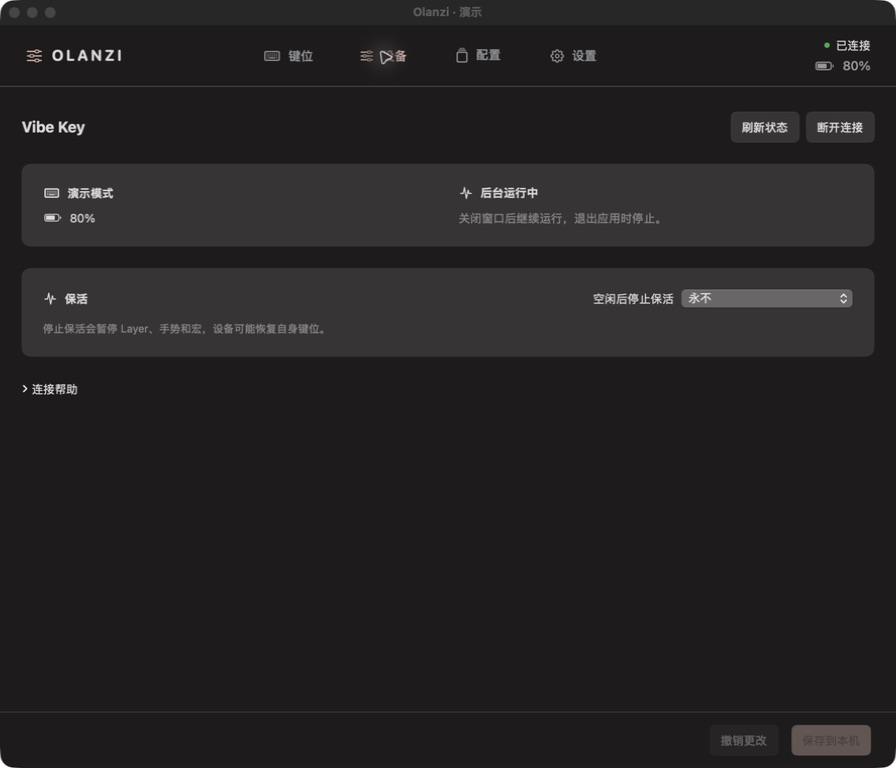
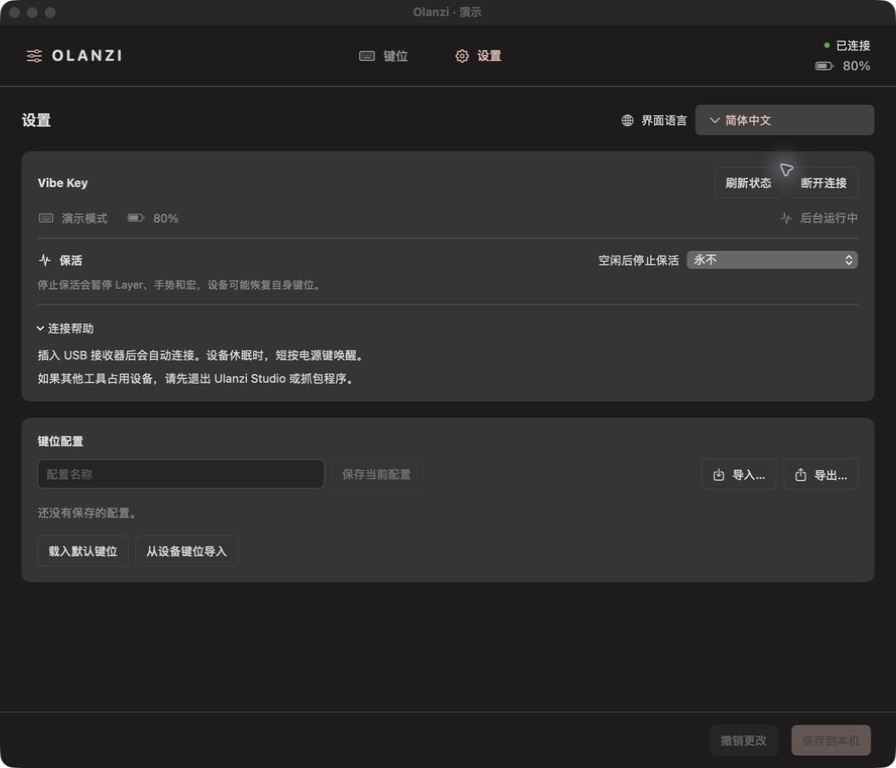
refactor(ui): consolidate device and profile settings

diff --git a/native/Sources/OlanziApp/ContentView.swift b/native/Sources/OlanziApp/ContentView.swift
@@ -6,6 +6,7 @@ struct ContentView: View {
     @ObservedObject var model: AppModel
     @State private var profileName = ""
     @State private var showsGestureHelp = false
+    @State private var showsConnectionHelp = true
     var body: some View {
         Group {
             if !model.demo && model.needsPermissionSetup {
@@ -39,15 +40,15 @@ struct ContentView: View {
         .accessibilityLabel(model.l("界面语言"))
     }
     private var appSettings: some View {
-        VStack(alignment: .leading, spacing: 24) {
-            Text(model.l("设置")).font(.title2.bold())
+        VStack(alignment: .leading, spacing: 18) {
             HStack {
-                Label(model.l("界面语言"), systemImage: "globe").font(.headline)
+                Text(model.l("设置")).font(.title2.bold())
                 Spacer()
-                languagePicker.labelsHidden().frame(width: 260)
+                Label(model.l("界面语言"), systemImage: "globe").font(.body)
+                languagePicker.labelsHidden().frame(width: 200)
             }
-            .padding(24)
-            .background(Palette.surface, in: RoundedRectangle(cornerRadius: 10))
+            deviceSettings
+            profiles
         }
     }
     private var permissionWelcome: some View {
@@ -138,11 +139,9 @@ struct ContentView: View {
                         if model.page == 0 {
                             keymap(availableHeight: viewport.size.height - 28,
                                    availableWidth: viewport.size.width - 48)
-                        } else if model.page == 1 { deviceSettings }
-                        else if model.page == 2 { profiles }
-                        else { appSettings }
+                        } else { appSettings }
                     }
-                    .padding(.horizontal, 24).padding(.vertical, model.page == 0 ? 14 : 28)
+                    .padding(.horizontal, 24).padding(.vertical, model.page == 0 ? 14 : 20)
                     .frame(maxWidth: .infinity)
                 }
             }
@@ -187,7 +186,7 @@ struct ContentView: View {
                 Text("OLANZI").font(.system(size: 17, weight: .bold, design: .rounded)).tracking(3)
             }
             Spacer()
-            ForEach(Array([(0, "keyboard", "键位"), (1, "slider.horizontal.3", "设备"), (2, "square.stack", "配置"), (3, "gearshape", "设置")].enumerated()), id: \.offset) { _, item in
+            ForEach(Array([(0, "keyboard", "键位"), (1, "gearshape", "设置")].enumerated()), id: \.offset) { _, item in
                 Button { model.page = item.0 } label: {
                     Label(model.l(item.2), systemImage: item.1).font(.system(size: 14, weight: .medium))
                         .foregroundStyle(model.page == item.0 ? Palette.accent : Color.gray)
@@ -541,9 +540,9 @@ struct ContentView: View {
         }.frame(width: 108, height: 416)
     }
     private var deviceSettings: some View {
-        VStack(alignment: .leading, spacing: 24) {
+        VStack(alignment: .leading, spacing: 14) {
             HStack {
-                Text("Vibe Key").font(.title2.bold())
+                Text("Vibe Key").font(.headline)
                 Spacer()
                 Button(model.l("刷新状态")) { model.refresh() }
                     .disabled(!model.device.connected || model.device.busy)
@@ -551,20 +550,17 @@ struct ContentView: View {
                     if model.device.connected { model.disconnect() } else { model.connect() }
                 }.disabled(model.device.busy)
             }
-            HStack(spacing: 24) {
-                VStack(alignment: .leading, spacing: 12) {
-                    Label(model.status, systemImage: "keyboard").font(.headline)
-                    Label(model.batteryText, systemImage: model.batterySymbol).font(.body)
-                        .help(model.batteryHelp)
-                }.frame(maxWidth: .infinity, alignment: .leading)
-                VStack(alignment: .leading, spacing: 12) {
-                    Label(model.l(model.device.heartbeatPausedForInactivity ? "因空闲已停止保活" : model.device.heartbeatEnabled ? "后台运行中" : "后台已暂停"),
-                          systemImage: "waveform.path.ecg").font(.headline)
-                    Text(model.l("关闭窗口后继续运行，退出应用时停止。"))
-                        .font(.body).foregroundStyle(.secondary)
-                }.frame(maxWidth: .infinity, alignment: .leading)
-            }.padding(24).background(Palette.surface, in: RoundedRectangle(cornerRadius: 10))
-            VStack(alignment: .leading, spacing: 16) {
+            HStack(spacing: 20) {
+                Label(model.status, systemImage: "keyboard")
+                Label(model.batteryText, systemImage: model.batterySymbol)
+                    .help(model.batteryHelp)
+                Spacer()
+                Label(model.l(model.device.heartbeatPausedForInactivity ? "因空闲已停止保活" : model.device.heartbeatEnabled ? "后台运行中" : "后台已暂停"),
+                      systemImage: "waveform.path.ecg")
+                    .help(model.l("关闭窗口后继续运行，退出应用时停止。"))
+            }.font(.body).foregroundStyle(.secondary)
+            Divider()
+            VStack(alignment: .leading, spacing: 10) {
                 HStack {
                     Label(model.l("保活"), systemImage: "waveform.path.ecg").font(.headline)
                     Spacer()
@@ -589,9 +585,10 @@ struct ContentView: View {
                             .help(model.l("有按住的按键时，松开后恢复。"))
                     }
                 }
-            }.padding(24).background(Palette.surface, in: RoundedRectangle(cornerRadius: 10))
-            DisclosureGroup(model.l("连接帮助")) {
-                VStack(alignment: .leading, spacing: 16) {
+            }
+            Divider()
+            DisclosureGroup(model.l("连接帮助"), isExpanded: $showsConnectionHelp) {
+                VStack(alignment: .leading, spacing: 10) {
                     Text(model.l("插入 USB 接收器后会自动连接。设备休眠时，短按电源键唤醒。"))
                     Text(model.l("如果其他工具占用设备，请先退出 Ulanzi Studio 或抓包程序。"))
                     if !model.demo {
@@ -601,13 +598,13 @@ struct ContentView: View {
                             Button(model.l("显示 App 位置")) { model.revealApplication() }
                         }
                     }
-                }.font(.body).padding(.top, 16)
+                }.font(.body).frame(maxWidth: .infinity, alignment: .leading).padding(.top, 10)
             }.font(.body)
-        }
+        }.padding(18).background(Palette.surface, in: RoundedRectangle(cornerRadius: 10))
     }
     private var profiles: some View {
-        VStack(alignment: .leading, spacing: 20) {
-            Text(model.l("键位配置")).font(.title2.bold())
+        VStack(alignment: .leading, spacing: 12) {
+            Text(model.l("键位配置")).font(.headline)
             HStack {
                 TextField(model.l("配置名称"), text: $profileName).textFieldStyle(OlanziTextFieldStyle()).frame(maxWidth: 320)
                 Button(model.l("保存当前配置")) { model.saveProfile(name: profileName); profileName = "" }
@@ -625,15 +622,15 @@ struct ContentView: View {
                     Spacer()
                     Button(model.l("载入")) { model.loadProfile(profile) }
                     Button { model.removeProfile(profile.id) } label: { Image(systemName: "trash") }.help(model.l("删除配置"))
-                }.padding(18).background(Palette.surface, in: RoundedRectangle(cornerRadius: 8))
+                }.padding(12).background(Palette.raised, in: RoundedRectangle(cornerRadius: 8))
             }
-            if model.profiles.isEmpty { Text(model.l("还没有保存的配置。")).foregroundStyle(.secondary).padding(.vertical, 35) }
+            if model.profiles.isEmpty { Text(model.l("还没有保存的配置。")).foregroundStyle(.secondary).padding(.vertical, 6) }
             HStack {
                 Button(model.l("载入默认键位")) { model.loadDefaults() }
                 Button(model.l("从设备键位导入")) { model.importDeviceBindings() }
                     .disabled(!model.online || model.device.busy || model.device.keys.count != 6)
             }
-        }
+        }.padding(18).background(Palette.surface, in: RoundedRectangle(cornerRadius: 10))
     }
     private var footer: some View {
         VStack(spacing: 0) {

diff --git a/native/Sources/OlanziApp/OlanziApp.swift b/native/Sources/OlanziApp/OlanziApp.swift
@@ -89,7 +89,7 @@ final class AppDelegate: NSObject, NSApplicationDelegate, NSWindowDelegate {
     }
     @objc private func resumeHeartbeat() { model.resumeHeartbeat() }
     @objc private func showSettings() {
-        model.page = 3
+        model.page = 1
         showWindow()
     }
     @objc private func showWindow() {

diff --git a/docs/09-native-macos.md b/docs/09-native-macos.md
@@ -67,7 +67,7 @@ Before connecting real hardware, quit official Studio and stop any legacy tool t
 
 The red close button and `Cmd-W` only hide the configuration window and retain drafts. Olanzi keeps running in the menu bar, and its Dock icon remains if already shown. Its background device worker continues the connection, heartbeat scheduling, and ordinary-key and Fn forwarding through the saved host action map while the device is available and keepalive is not paused. Reopen the configuration window from the menu bar or Dock when you need to edit mappings. While a receiver is connected, the background worker holds an activity assertion against App Nap so hiding the window does not reduce heartbeat and input scheduling. It releases the assertion on disconnect or quit, and demo mode never acquires one. This assertion allows the Mac to sleep normally.
 
-Open Settings in the main window’s top navigation, or choose Settings in the macOS application menu (`Cmd-,`), to change the interface language. Options are Follow System (the default), English, and Simplified Chinese; unsupported system languages fall back to English. The selected preference is saved and takes effect immediately without restarting the app. Changing language preserves key mappings and unsaved drafts. User-defined profile names and file paths are not translated. The permission welcome page provides the same language selector, so language can be changed before granting permissions while the rest of the workspace remains gated.
+The main window has two navigation tabs: **Keys** and **Settings**. Settings combines the language selector at the top with Vibe Key status, keepalive, connection help, and keymap profile management below. Connection help is expanded by default. Open Settings from the top navigation or the macOS application menu (`Cmd-,`). Use its language selector to change the interface language. Options are Follow System (the default), English, and Simplified Chinese; unsupported system languages fall back to English. The selected preference is saved and takes effect immediately without restarting the app. Changing language preserves key mappings and unsaved drafts. User-defined profile names and file paths are not translated. The permission welcome page provides the same language selector, so language can be changed before granting permissions while the rest of the workspace remains gated.
 
 Choose Quit from the application menu to stop the app and device worker. Shutdown attempts to release any synthetic Fn hold and closes the device interfaces. Closing a window is therefore different from quitting the app. Computer sleep interrupts continued heartbeat delivery regardless of whether the window is open.
 
@@ -115,7 +115,7 @@ tap_code16(LCTL(LALT(LGUI(KC_I))));
 
 Unknown or unsupported syntax reports a line and column and is not executed. The editor accepts at most 32 KiB of code and 32 levels of nesting, and the expanded result must still fit the 1–32 macro-step limit. Converting between views preserves executable steps, not the original whitespace, comments, or choice of equivalent syntax.
 
-The device illustration and action cards are the control selector; there is no repeated control list. The key picker always includes **▽** and a **rounded square with a cross (`xmark.square`)** (No Action) instead of separate clear-action and restore-inheritance buttons. On a non-base layer, ▽ restores only the selected gesture’s lower-layer action, output mode, and repeat count, preserving other overrides; Layer 0 cannot inherit. The crossed-square keycap makes a primary action an explicit no-op, or disables the selected double/long gesture so it no longer participates in recognition, including when a lower layer has that gesture. Inherited actions display a downward triangle with explanatory hover and accessibility text. Timing and Fn explanations are in the question-mark help. The footer shows pending changes or a save in progress, without a routine saved-state label; errors remain visible. The device page keeps connection help collapsed and omits heartbeat counters.
+The device illustration and action cards are the control selector; there is no repeated control list. The key picker always includes **▽** and a **rounded square with a cross (`xmark.square`)** (No Action) instead of separate clear-action and restore-inheritance buttons. On a non-base layer, ▽ restores only the selected gesture’s lower-layer action, output mode, and repeat count, preserving other overrides; Layer 0 cannot inherit. The crossed-square keycap makes a primary action an explicit no-op, or disables the selected double/long gesture so it no longer participates in recognition, including when a lower layer has that gesture. Inherited actions display a downward triangle with explanatory hover and accessibility text. Timing and Fn explanations are in the question-mark help. The footer shows pending changes or a save in progress, without a routine saved-state label; errors remain visible. Settings keeps connection help expanded by default and omits heartbeat counters.
 
 Operation feedback, including saves, appears as a floating capsule near the top of the window. Its `Capsule` shape has semicircular ends and occupies no page-layout space. Short messages dismiss after about 3.5 seconds, longer ones after 7 seconds, and either can be closed manually; repeating the same notice restarts its timer.
 
@@ -125,13 +125,13 @@ The host map is authoritative for all six controls while Olanzi is forwarding wi
 
 Exports default to `vibe-key-yyyy-MM-dd_HH-mm-ss-SSS.json`, using the current local date and time down to milliseconds to distinguish successive exports.
 
-The profile page offers `从设备键位导入` (import device mappings) as an optional action. It validates the six-control read-only snapshot before loading a draft. An unsupported action identifies the affected control and leaves the current draft unchanged. Importing does not save or activate the draft. The on-device key table remains an independent fallback. Explicit hardware writes through the protocol tool still require ACK/readback and can partially succeed; the native host-action editor no longer invokes that operation. Drafts are separate from both the saved host map and hardware snapshot.
+The Key Profiles section in Settings offers `从设备键位导入` (import device mappings) as an optional action. It validates the six-control read-only snapshot before loading a draft. An unsupported action identifies the affected control and leaves the current draft unchanged. Importing does not save or activate the draft. The on-device key table remains an independent fallback. Explicit hardware writes through the protocol tool still require ACK/readback and can partially succeed; the native host-action editor no longer invokes that operation. Drafts are separate from both the saved host map and hardware snapshot.
 
 The heartbeat follows Studio's recovered plaintext prefix `06 01 23 00 01` with zero padding. Because it selects vendor-event forwarding, it is enabled only with a successfully saved valid host map, a connected and online device, Input Monitoring and Accessibility permissions, and unsuspended input. Otherwise heartbeats stop while read-only online and key queries remain available; query waits also check permissions and sleep state. Successful transmission does not alone prove radio delivery or idle wakefulness. See [07 · Heartbeat Investigation](07-heartbeat-investigation.md).
 
-The device page provides an idle-stop preference: **Never** (default), or **1, 5, 10, 15, 30, or 60 minutes**. Changes save immediately on this Mac, separately from keymap drafts and profiles. Only physical Vibe Key key and knob actions count as activity. Holding a push control prevents timeout; releasing it starts a new idle interval. Status and battery queries, other computer input, and hiding the window do not reset that interval.
+The Vibe Key section in Settings provides an idle-stop preference: **Never** (default), or **1, 5, 10, 15, 30, or 60 minutes**. Changes save immediately on this Mac, separately from keymap drafts and profiles. Only physical Vibe Key key and knob actions count as activity. Holding a push control prevents timeout; releasing it starts a new idle interval. Status and battery queries, other computer input, and hiding the window do not reset that interval.
 
-At timeout, the worker stops heartbeats, cancels host gestures, momentary layers, keyboard repeats, and macros, and releases owned keys. The device may return to its firmware mappings. This pause stays latched: incoming vendor events do not resume host forwarding, avoiding duplicate output if standard HID has resumed. Use **Resume Keepalive** on the device page or in the menu bar to resume. A real receiver reconnection, Mac wake, or confirmed device offline-to-online transition also starts a new interval; recovery from an unknown status after a failed query does not clear the pause. Device sleep timing and power savings still require physical verification.
+At timeout, the worker stops heartbeats, cancels host gestures, momentary layers, keyboard repeats, and macros, and releases owned keys. The device may return to its firmware mappings. This pause stays latched: incoming vendor events do not resume host forwarding, avoiding duplicate output if standard HID has resumed. Use **Resume Keepalive** in Settings or in the menu bar to resume. A real receiver reconnection, Mac wake, or confirmed device offline-to-online transition also starts a new interval; recovery from an unknown status after a failed query does not clear the pause. Device sleep timing and power savings still require physical verification.
 
 The main window displays battery status below the connection state at the top right. While the device is online, the worker sends the read-only `01 01 02 01` query every 20 seconds and records the latest successful timestamp. The UI shows percentage and charging status, with levels at or below 20% in orange. Offline, unknown, or failed readings show `电量 —`; if only percentage is unavailable, a valid voltage is shown instead. The tooltip gives voltage, update time, or an independent read error. Battery failures clear the stale reading and retry on the next interval without disabling Fn forwarding. Decoding is based on [02 · Protocol](02-vibekey-protocol.md#battery-reply-fields); the current sample and verification boundary are in [05 §9.10](05-verification-log.md#910-read-only-battery-status-and-main-window-display).
 
@@ -145,7 +145,7 @@ Fn remains an ordinary key name in Common: select it and apply, without a separa
 
 Give **Olanzi App** both Input Monitoring and Accessibility permission in System Settings → Privacy & Security. These permissions belong to the native bundle, not the legacy terminal process. Outside demo mode, either missing permission shows only a permission welcome page inside the main app window by replacing its content, without opening a popup, another window, a sheet, the configuration workspace, or the settings interface or stacking initialization errors and a footer error bar. The welcome page provides separate Input Monitoring and Accessibility guidance, buttons for the corresponding system settings, and an app-location entry point. This guidance is independent of map initialization and device online status. Both permissions becoming ready automatically opens the workspace; revocation returns to the welcome page. Demo mode bypasses this gate. Automated regression, build, and real-UI verification of the welcome-page gate passed: one Olanzi main window showed the welcome text, both permission states, and settings and app-location controls, without configuration navigation, initialization errors, a save footer, or an additional popup. Clicking requests the selected permission directly on the app main thread before opening the matching System Settings page; the request no longer waits for the device worker or connection. Input Monitoring uses the HID request API, with an event-listening request as a fallback if access remains denied. The app requests one permission at a time, without adding a separate Fn panel. System policy and existing denial records can still prevent a new prompt; opening Settings alone is not evidence that the app was registered. The app checks permissions once per second without prompting, independently of window activation and the device worker. The UI stores these results separately so older device snapshots cannot overwrite newer permission state; changes automatically switch between the welcome page and workspace and ask the device service to recheck. Stopping the app cancels the timer, and demo mode does not poll. If Settings is enabled but the running process still reports unavailable access, first verify the authorized app copy and path; a Settings switch alone does not establish current-process permission. Ordinary-key and Fn forwarding both depend on these permissions; a device mapping does not establish that access is ready or forwarding is active.
 
-If Olanzi is absent from the settings list, click + to add it. The welcome or device page's “Show App Location” button reveals the running bundle in Finder. Grant permission to that copy at a stable path, such as the repository's `build/Olanzi.app` or `~/Applications/Olanzi.app`. Reuse the same signing certificate and bundle identifier across builds. Switching from ad-hoc signing to a certificate changes the signing requirement, so existing permissions may need to be removed and granted again once. Stable signing does not grant permissions automatically. [CONFIRMED] `codesign` verification of this local build identified the sole Apple Development identity in the keychain and bundle identifier `com.mrcroxx.olanzi`, with no ad-hoc signing. Missing permissions still require user approval in System Settings.
+If Olanzi is absent from the settings list, click + to add it. The “Show App Location” button on the welcome page or in Settings → Connection Help reveals the running bundle in Finder. Grant permission to that copy at a stable path, such as the repository's `build/Olanzi.app` or `~/Applications/Olanzi.app`. Reuse the same signing certificate and bundle identifier across builds. Switching from ad-hoc signing to a certificate changes the signing requirement, so existing permissions may need to be removed and granted again once. Stable signing does not grant permissions automatically. [CONFIRMED] `codesign` verification of this local build identified the sole Apple Development identity in the keychain and bundle identifier `com.mrcroxx.olanzi`, with no ad-hoc signing. Missing permissions still require user approval in System Settings.
 
 Input Monitoring first reads `CGPreflightListenEventAccess()`. If it is false, a temporary session-level, listen-only event tap containing only key-down/key-up events checks the current process's keyboard-listening capability. The probe must be both valid and enabled and is immediately invalidated and released, without joining a run loop or collecting keyboard content. `IOHIDCheckAccess()` and event-synthesis preflight remain diagnostic values. Accessibility independently reads `AXIsProcessTrusted()` on every check, without short-circuiting on other preflights. Diagnostics include `ListenProbe`, distinguishing probe results from skipped checks. The UI reports current listening capability as `已就绪` (ready), not the separate Settings switch, and does not establish any permission API's caching mechanism. It supersedes the preflight-only decision and conditional AX checks from §9.5/§9.6; see [05 §9.7](05-verification-log.md#97-checking-keyboard-listening-capability-after-a-negative-preflight) for in-process evidence and verification limits.
 

diff --git a/docs/10-input-runtime.md b/docs/10-input-runtime.md
@@ -70,7 +70,7 @@ For example, click **1** and override key 2 and knob rotation, then click **0** 
 
 The active map is stored at `~/Library/Application Support/Olanzi/host-keymap.json`. It contains six unique control indices, the action entries, timing values, and schema version. The store validates before writing, uses an atomic replacement, and does not activate a new map when persistence fails. If the file is missing, the worker publishes `hostConfigurationMissing=true` without creating a map or writing a file. The app offers `HostKeymap.defaultKeymap` as an editable draft, independent of device presence or the types in its old key table. A corrupt or unsupported local file remains an error, requires repair followed by an app restart, and cannot be overwritten by a draft. Only an explicit successful save persists and activates a new host map; until then, the default draft does not enable heartbeats. This process never writes the device key table.
 
-The device table is a separate fallback used when the app is absent and the receiver returns to standard HID output. Editing the fallback remains an explicit protocol-tool operation described in [03 · Tool Manual](03-tool-manual.md). Applying a host map or importing a profile does not rewrite it. The profile page can explicitly import the read-only device key snapshot into a draft. All six controls must validate; a failure identifies the affected control and preserves the existing draft. This optional import is not initialization or activation. Default drafts and existing host maps can be edited and saved offline; demo mode uses memory only and never touches the real host store or device.
+The device table is a separate fallback used when the app is absent and the receiver returns to standard HID output. Editing the fallback remains an explicit protocol-tool operation described in [03 · Tool Manual](03-tool-manual.md). Applying a host map or importing a profile does not rewrite it. The Key Profiles section in Settings can explicitly import the read-only device key snapshot into a draft. All six controls must validate; a failure identifies the affected control and preserves the existing draft. This optional import is not initialization or activation. Default drafts and existing host maps can be edited and saved offline; demo mode uses memory only and never touches the real host store or device.
 
 Exported `HostProfile` version 2 includes every control’s `press`, optional `doublePress` and `longPress` actions, the `pressBehavior`/`pressTapCount`, `doublePressBehavior`/`doublePressTapCount`, and `longPressBehavior`/`longPressTapCount` keyboard output settings, and the `doublePressWindow` and `longPressThreshold` timing values, together with app targets and complete macro steps. Existing keyboard-only actions remain compatible. The outer profile stays at version 2. Its nested `HostKeymap` writes version 5 when new primary or double-press output settings differ from their defaults or any gesture inheritance flags are present. Each control’s `inheritedGestures` is a `Set<ControlGesture>` containing any of `press`, `doublePress`, and `longPress`; marked gestures inherit their actions and keyboard output settings. No Action primary is stored as keyboard key 0, while No Action double/long press is `nil` without an inheritance flag. A missing control record inherits all gestures; an existing record without flags keeps its legacy complete override. Without non-default output settings or inheritance flags, existing version selection remains unchanged: layer overrides or MO actions use version 4. Storage remains sparse: unedited layers 1–3 may be absent from `layers`, and MO(1)–MO(3) remain valid without corresponding stored records. The reader accepts map versions 1–5, preserving older keyboard mappings and inline app/macro actions as Layer 0 with transparent layers 1–3. When no version-5 settings, layer records, or MO actions are present, serialization retains version 3 for an action library or library references, version 2 for other extended actions, and version 1 for keyboard-only mappings. Missing `pressBehavior` and `pressTapCount` default to `hold` and 2; missing `doublePressBehavior` and `doublePressTapCount` default to `tap` and 2. Older profiles without `longPressBehavior` decode as `hold`, and a missing `longPressTapCount` defaults to 2. Existing long-press modes and counts are retained; a rotary primary with legacy `hold` still executes one pulse. Existing Hold and Tap Once profiles retain their behavior; the count is validated within 2–20 in every mode. Rotary controls do not support long-press behavior. Double/long gestures remain supported. The chosen cross-Mac workflow is to export this complete JSON, import it on the destination Mac, and explicitly save it locally. Automatic cross-Mac synchronization through the device is not provided, and profile transfer never writes the device key table. Import accepts legacy native version-1 six-code profiles by turning their codes into primary actions with optional gestures disabled. Saved profile collections use `nativeHostProfiles`; the old `nativeProfiles` collection remains available as the migration source. Entries are decoded and migrated independently, so one corrupt or unsupported entry cannot prevent valid profiles from loading. Complete original data containing failed entries is backed up in `nativeHostProfilesRecoveryBackups`; subsequent profile saves or deletions do not overwrite that recovery copy. Import is bounded to 32 KiB and rejects invalid versions, duplicate/missing controls, unsupported keys, invalid timings, and rotary gesture mappings.
 
@@ -100,9 +100,9 @@ An app activation error or timeout stops the remaining macro. After a macro sele
 
 Studio heartbeats default to disabled. They are enabled only when a successfully saved valid host map, a connected and online device, Input Monitoring and Accessibility permissions, and unsuspended input are all ready. An unsaved default draft, a local configuration-file error, or missing permissions leaves read-only vendor queries available without continuing to take over device input through heartbeats. Permission diagnostics are independent of map initialization and device online status. Outside demo mode, missing Input Monitoring or Accessibility permission replaces the main app window's content with the permission welcome page and authorization guidance, without opening a popup, another window, or a sheet, or entering the configuration workspace or settings interface. Both permissions becoming ready opens the workspace automatically; revocation returns to the welcome page, without stacking initialization errors and footer notices. Query waits also check suspension conditions. Normal online queries retain the last confirmed state until completion, avoiding cancellation of held actions every two seconds.
 
-The idle-stop preference is stored locally and independently of `HostKeymap`, its drafts, and exported profiles. Its default is Never; supported timeouts are 1, 5, 10, 15, 30, and 60 minutes, applied immediately from the device page. The worker measures only physical Vibe Key key and knob activity. While a push control is held, timeout is suppressed; release restarts the interval. Read-only status/battery queries, other computer input, and window visibility never refresh the activity deadline.
+The idle-stop preference is stored locally and independently of `HostKeymap`, its drafts, and exported profiles. Its default is Never; supported timeouts are 1, 5, 10, 15, 30, and 60 minutes, applied immediately from the Vibe Key section in Settings. The worker measures only physical Vibe Key key and knob activity. While a push control is held, timeout is suppressed; release restarts the interval. Read-only status/battery queries, other computer input, and window visibility never refresh the activity deadline.
 
-Reaching that deadline latches an idle pause, gates heartbeat and host forwarding, cancels gestures, layers, keyboard groups, and macros, and releases owned keys. Firmware mappings may resume on the device. Vendor reports do not clear the latch or trigger host actions while paused, preventing double output if standard HID has returned. Explicit Resume Keepalive from the device page or menu bar, a real receiver reconnection, Mac wake, or a confirmed device offline-to-online transition clears the pause and starts a new interval, subject to the usual configuration and permission gates. The last confirmed online state is tracked across failed queries: an unknown-to-online result alone is not a reconnect and does not resume. These runtime rules do not establish physical device sleep or power savings.
+Reaching that deadline latches an idle pause, gates heartbeat and host forwarding, cancels gestures, layers, keyboard groups, and macros, and releases owned keys. Firmware mappings may resume on the device. Vendor reports do not clear the latch or trigger host actions while paused, preventing double output if standard HID has returned. Explicit Resume Keepalive from Settings or the menu bar, a real receiver reconnection, Mac wake, or a confirmed device offline-to-online transition clears the pause and starts a new interval, subject to the usual configuration and permission gates. The last confirmed online state is tracked across failed queries: an unknown-to-online result alone is not a reconnect and does not resume. These runtime rules do not establish physical device sleep or power savings.
 
 The app independently reads `InputPermission.currentStatus()` once per second in the main run loop's common mode, without depending on window activation or completion of device jobs and without requesting authorization. Polled results are stored separately so older device snapshots cannot roll them back; only changes ask the service to recheck immediately and automatically switch the welcome page. Stopping or destroying the model cancels the timer; demo mode does not read real permissions. Input Monitoring first reads the CG listening preflight. Only when false does it create a temporary session-level, listen-only, keyboard-only capability probe, checking that it is valid and enabled before immediately releasing it without joining a run loop or reading events. A true preflight skips the probe. Either successful check means current keyboard-listening capability is `已就绪` (ready), not that the UI mirrors a separate Settings switch. HID and event-synthesis preflight remain diagnostic values. Accessibility reads `AXIsProcessTrusted()` unconditionally on every check, preventing any other preflight from short-circuiting the real AX state. `ListenProbe` diagnostics distinguish probe results from skipped checks.
 

diff --git a/README.md b/README.md
@@ -57,14 +57,17 @@ QMK-style syntax in Code view. Named actions can be reused across your keymap.
 ![Native macro editor with an application switch, a delay, and a keyboard shortcut](docs/images/macros-en.png)
 
 <details>
-<summary><strong>Battery and background operation</strong></summary>
+<summary><strong>Device and app settings</strong></summary>
+
+Open **Settings** for language, device status, keepalive, connection help,
+and saved profiles in one place. Connection help is expanded by default.
 
 See battery and charging status at a glance. Choose when to stop keepalive
 after the device is idle, or leave it on. When keepalive pauses, host layers,
-gestures, and macros pause too; resume from the device page or menu bar.
+gestures, and macros pause too; resume from Settings or the menu bar.
 Closing the window keeps Olanzi running; quitting stops it.
 
-![Device status and the idle keepalive setting](docs/images/device-en.png)
+![Settings with language, device status, keepalive, connection help, and profiles](docs/images/device-en.png)
 
 </details>
 
@@ -91,7 +94,7 @@ for installation, permissions, and signing.
 ### Your settings stay on your Mac
 
 Normal edits save to `~/Library/Application Support/Olanzi/host-keymap.json`.
-They do not rewrite the device's own key table. Use **Profiles** to save,
+They do not rewrite the device's own key table. Use **Settings → Key Profiles** to save,
 export, and import setups; after loading one, save it to activate it.
 Olanzi needs to remain running for host actions to work. Automatic startup
 at login is not configured.

diff --git a/README.zh.md b/README.zh.md
@@ -55,13 +55,16 @@ QMK 风格语法。命名后的动作可以在多处键位中复用。
 ![原生宏编辑器：切换应用、等待与发送组合键](docs/images/macros-zh.png)
 
 <details>
-<summary><strong>电量与后台运行</strong></summary>
+<summary><strong>设备与应用设置</strong></summary>
+
+打开 **设置**，在同一页调整语言、查看设备状态、设置保活并管理键位配置。
+连接帮助默认展开。
 
 随时查看电量和充电状态。可以设置设备空闲多久后停止保活，
 也可以一直保持。保活暂停后，本机 Layer、手势和宏也会暂停，
-可从设备页或菜单栏恢复。关闭窗口后 Olanzi 继续运行，退出应用才会停止。
+可从设置页或菜单栏恢复。关闭窗口后 Olanzi 继续运行，退出应用才会停止。
 
-![设备状态与空闲保活设置](docs/images/device-zh.png)
+![设置页：语言、设备状态、保活、连接帮助与键位配置](docs/images/device-zh.png)
 
 </details>
 
@@ -87,7 +90,7 @@ CI 构建产物保留七天，使用临时签名，未经 Apple 公证。
 ### 配置保存在你的 Mac 上
 
 日常编辑保存到 `~/Library/Application Support/Olanzi/host-keymap.json`，
-不会改写设备自身的按键表。在 **配置** 页保存、导出和导入不同方案；
+不会改写设备自身的按键表。在 **设置 → 键位配置** 中保存、导出和导入不同方案；
 载入后还需保存到本机才会生效。使用本机动作时需要保持 Olanzi 运行。
 应用目前不会自动设置开机启动。
 
